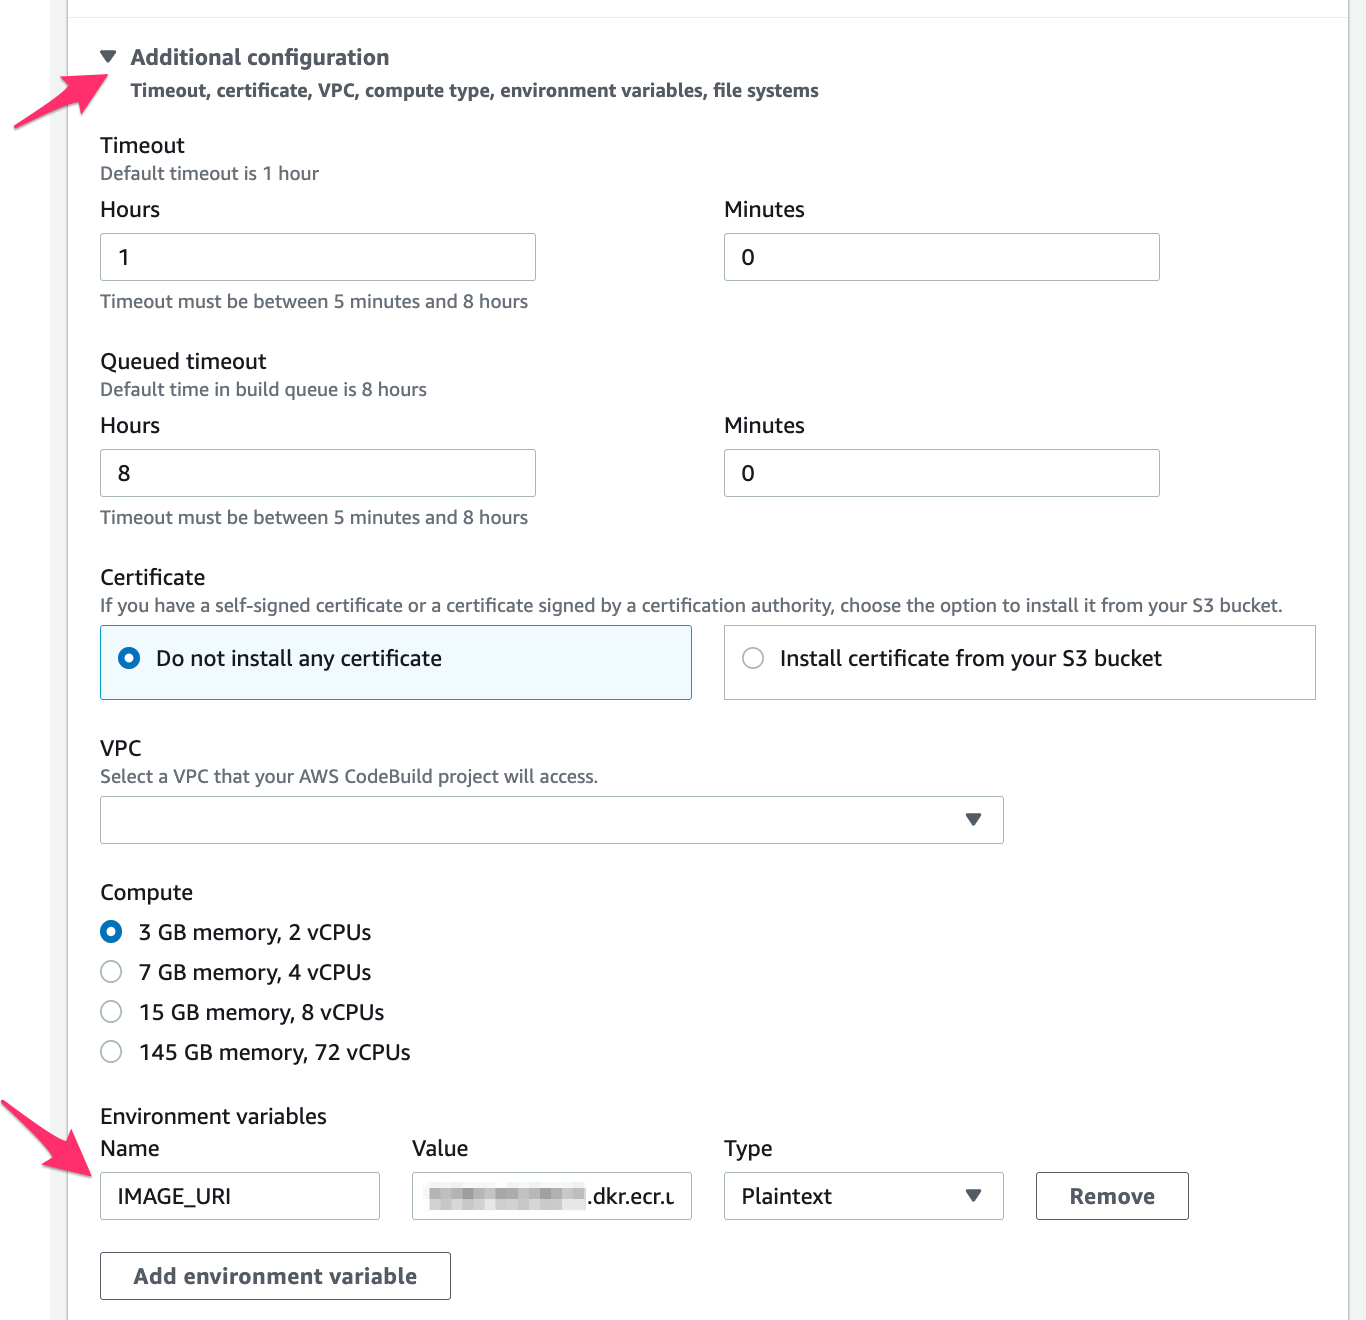
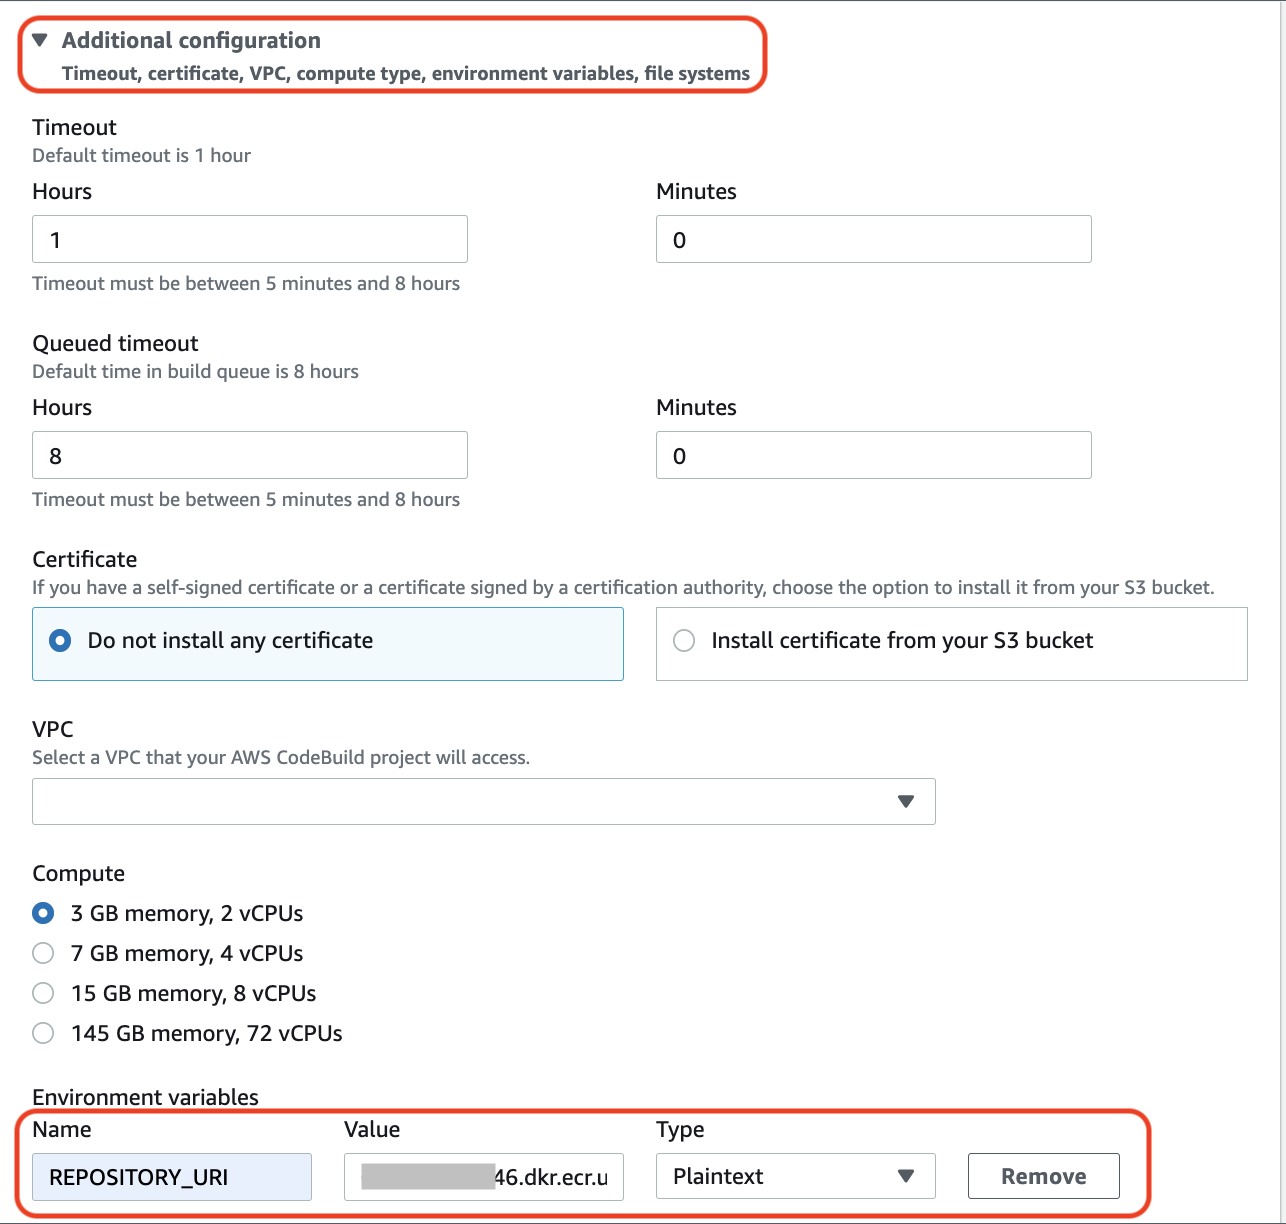
Some fixes for Nextflow.

diff --git a/content/05-cicd-pipeline/03-docker-buildspec.md b/content/05-cicd-pipeline/03-docker-buildspec.md
@@ -50,7 +50,7 @@ phases:
     commands:
       - echo Logging in to Amazon ECR...
       - aws --version
-      - aws ecr get-login-password --region $AWS_REGION | docker login --username AWS --password-stdin $REPOSITORY_URI
+      - aws ecr get-login-password --region \$AWS_REGION | docker login --username AWS --password-stdin \$REPOSITORY_URI
       - IMAGE_TAG=\$(echo \$CODEBUILD_RESOLVED_SOURCE_VERSION | cut -c 1-8)
       - echo IMAGE TAG \$IMAGE_TAG
 

diff --git a/content/06-batch-automation/04-setup-batch-job-definition.md b/content/06-batch-automation/04-setup-batch-job-definition.md
@@ -14,6 +14,7 @@ Run the following commands on your Cloud9 terminal
 
 ```bash
 aws s3 cp s3://sca23-hpc-labs/sca23-nextflow-batch-jd.template.yaml .
+sed -i "/         Value: \!Ref NFJobQueue/a\        - Name: NXF_VER\n          Value: 22.10.8" sca23-nextflow-batch-jd.template.yaml
 ```
 
 2. Set the following environment variables to be passed as parameters to the Cloudformation stack. 
